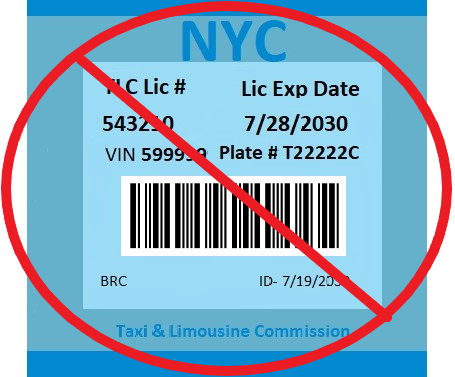
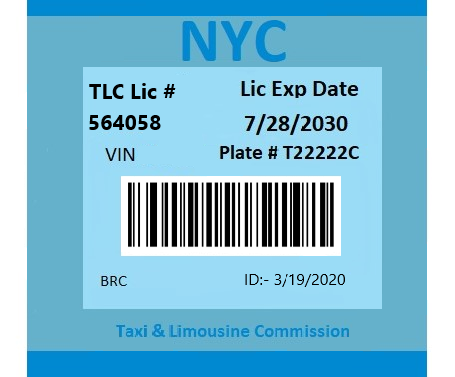
Fixed form bug & fhv img

Changed region(s): [[0.0, 0.0, 1.0, 1.0], [0.5231, 0.2042, 0.8, 0.2626]]

diff --git a/_includes/form.html b/_includes/form.html
@@ -1,18 +1,19 @@
 <div class="container mx-auto clearfix mt-2 mt-lg-4 px-2">
   <div class="form-group">
     <form id="gform" name="gform" target="hidden_iframe" onsubmit="submitted=true;" action="https://docs.google.com/forms/u/3/d/e/1FAIpQLSeaHZ2zYQfLG55xy9PTKcpdqnDEBjZKILeuS7IljCB1tkzaLA/formResponse" method="post">
+    <!-- <form action="https://docs.google.com/forms/u/3/d/e/1FAIpQLSeaHZ2zYQfLG55xy9PTKcpdqnDEBjZKILeuS7IljCB1tkzaLA/formResponse" target="_self" method="POST" id="mG61Hd" jsmodel="TOfxwf Q91hve" data-response="%.@.[]]" data-first-entry="0" data-last-entry="5" data-is-first-page="true"> -->
       <label>Your Name:</label>
-      <input class="form-control" type="text" name="entry.1781500597" id="entry.1781500597" placeholder="Your name" />
+      <input class="form-control" type="text" name="entry.1781500597" placeholder="Your name" />
       <label>Your Number:</label>
-      <input class="form-control" type="text" id="entry.297979220" name="entry.297979220" placeholder="718-384-8000">
+      <input class="form-control" type="text" name="entry.297979220" placeholder="718-384-8000">
       <label>Your Email:</label>
-      <input class="form-control" type="email" name="entry.1640447617" id="entry.1640447617" placeholder="Your email" />
+      <input class="form-control" type="email" name="entry.1640447617" placeholder="Your email" />
       <label>Comments:</label>
-      <textarea class="form-control" type="text" name="entry.1078004677" id="entry.1078004677" placeholder="Your message"></textarea>
+      <textarea class="form-control" type="text" name="entry.1078004677" placeholder="Your message"></textarea>
       <label>Mobile operating system:</label><br>
-      <input type="radio" id="entry.2040870261" name="entry.2040870261" value="ios">
+      <input type="radio" name="entry.2040870261" value="IOS">
       <label>IOS</label><br>
-      <input type="radio" id="entry.2040870261" name="entry.2040870261" value="android">
+      <input type="radio" name="entry.2040870261" value="Android">
       <label>Andriod</label><br>
       <hr>
       <input class="btn btn-primary" type="submit" value="submit"/>

diff --git a/_posts/2020-06-23-required-documents.md b/_posts/2020-06-23-required-documents.md
@@ -64,11 +64,11 @@ _[`** Click here for more info on Congestion Surcharge **`](https://www1.nyc.gov
 
 ---
 
-> TLC For-Hire-Vehicle-Permit Report
+> TLC For-Hire-Vehicle-Inspection Report
 
 ![documents]({{site.baseurl}}/images/fhv.png)
 
-> _Do not send the windshield sticker picture_
+> Windshield sticker picture
 
 ![documents]({{site.baseurl}}/images/fhv-sticker.png)
 
